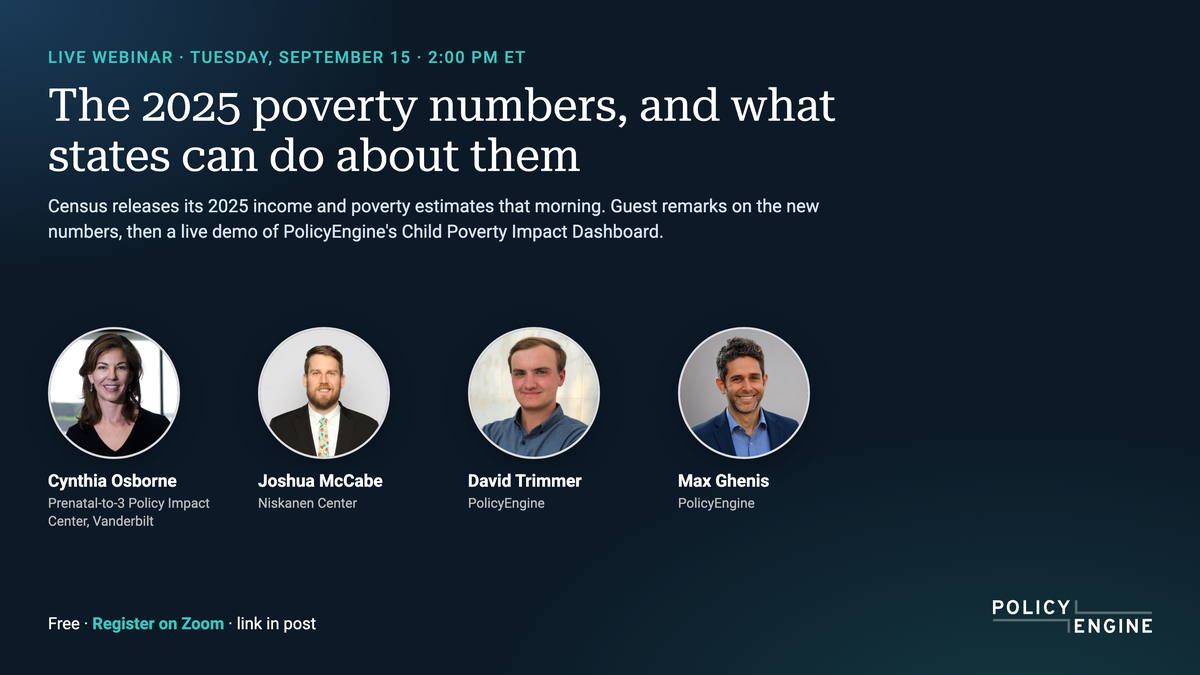
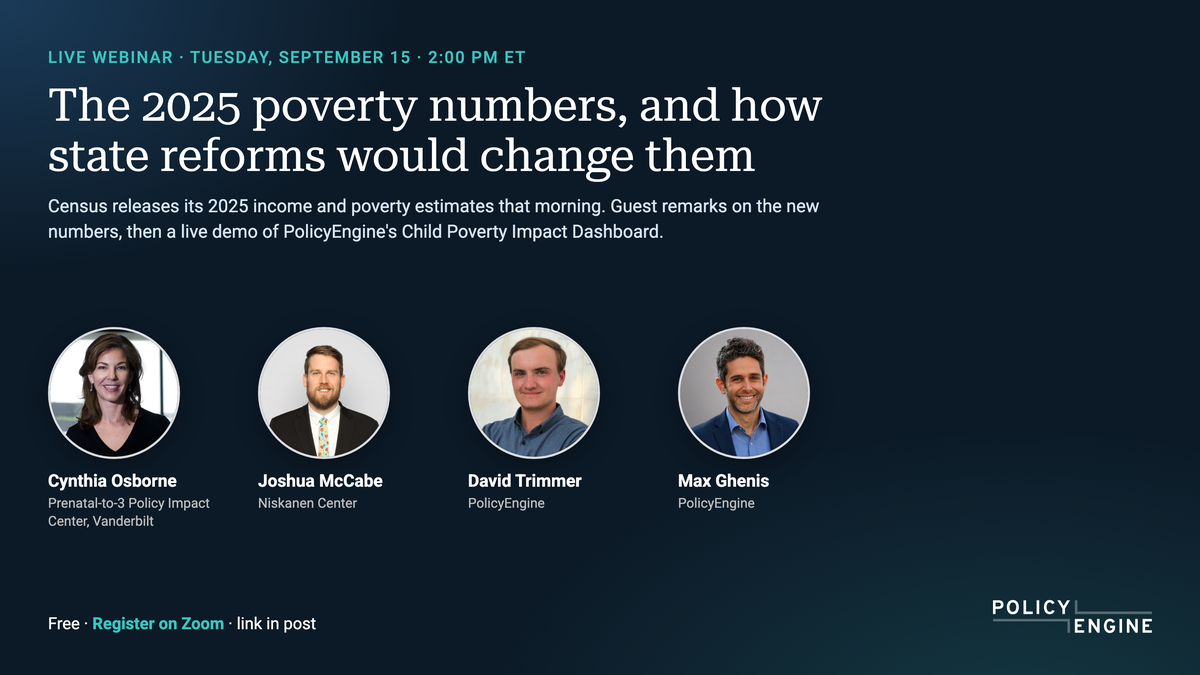
Neutral headline: how state reforms would change the numbers

Changed region(s): [[0.1233, 0.1867, 0.6475, 0.28], [0.5858, 0.1244, 0.7092, 0.1867]]

diff --git a/editions/2026-09-08-us.html b/editions/2026-09-08-us.html
@@ -51,7 +51,7 @@
                             </p>
 
                             <h1 class="hero-title" style="margin: 0 0 20px 0; font-size: 28px; font-weight: 800; color: #FFFFFF; line-height: 1.15; letter-spacing: -0.02em;">
-                                The 2025 poverty numbers, and what states can do about them
+                                The 2025 poverty numbers, and how state reforms would change them
                             </h1>
 
                             <p style="margin: 0; font-size: 15px; line-height: 1.65; color: #B2F5EA; font-weight: 400;">
@@ -94,7 +94,7 @@
                             <table width="100%" cellpadding="0" cellspacing="0" style="border-bottom: 1px solid #E2E8F0;">
                                 <tr>
                                     <td class="pad" style="padding: 28px 40px 0 40px;">
-                                        <img src="https://raw.githubusercontent.com/PolicyEngine/newsletters/2026-09-08-us/assets/images/cpid-webinar-2026-09-15.png" alt="Live webinar, Tuesday September 15 at 2pm ET. The 2025 poverty numbers, and what states can do about them. Speakers: Cynthia Osborne, Joshua McCabe, David Trimmer, Max Ghenis." style="width: 100%; height: auto; border-radius: 8px; margin-bottom: 28px;">
+                                        <img src="https://raw.githubusercontent.com/PolicyEngine/newsletters/2026-09-08-us/assets/images/cpid-webinar-2026-09-15.png" alt="Live webinar, Tuesday September 15 at 2pm ET. The 2025 poverty numbers, and how state reforms would change them. Speakers: Cynthia Osborne, Joshua McCabe, David Trimmer, Max Ghenis." style="width: 100%; height: auto; border-radius: 8px; margin-bottom: 28px;">
                                     </td>
                                 </tr>
                             </table>
@@ -107,7 +107,7 @@
                                             Why join
                                         </p>
                                         <p style="margin: 0 0 16px 0; font-size: 13px; line-height: 1.6; color: #475569;">
-                                            The Census Bureau publishes <em>Income, Poverty and Health Insurance Coverage in the United States: 2025</em> at 10am ET on September 15. Four hours later, we go live. Our guests give a few minutes each on what the new numbers say. Then we turn to what states can do about them: David walks through the <strong style="color: #1D4044;">Child Poverty Impact Dashboard</strong> live, building a reform, tracing one family&rsquo;s taxes and benefits across the earnings range, and comparing statewide and district impacts.
+                                            The Census Bureau publishes <em>Income, Poverty and Health Insurance Coverage in the United States: 2025</em> at 10am ET on September 15. Four hours later, we go live. Our guests give a few minutes each on what the new numbers say. Then we turn to how state reforms would change them: David walks through the <strong style="color: #1D4044;">Child Poverty Impact Dashboard</strong> live, building a reform, tracing one family&rsquo;s taxes and benefits across the earnings range, and comparing statewide and district impacts.
                                         </p>
                                         <img src="https://raw.githubusercontent.com/PolicyEngine/newsletters/2026-09-08-us/assets/images/child-poverty-dashboard.png" alt="Child Poverty Impact Dashboard landing page: Explore how policy reforms reduce child poverty" style="width: 100%; height: auto; border-radius: 8px; border: 1px solid #E2E8F0; margin-bottom: 20px;">
                                         <p style="margin: 0 0 16px 0; font-size: 13px; line-height: 1.6; color: #475569;">
